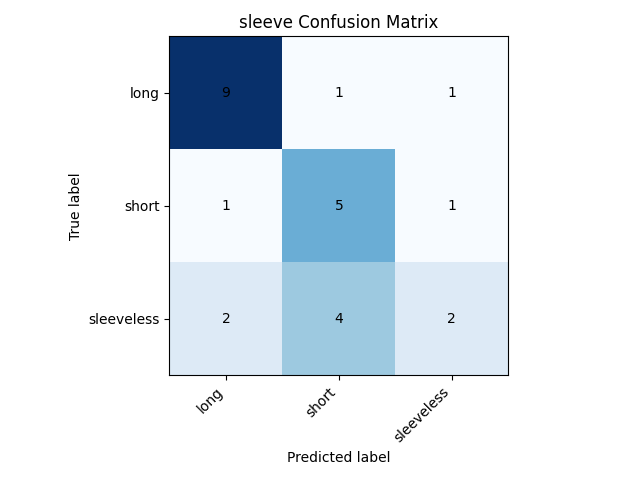
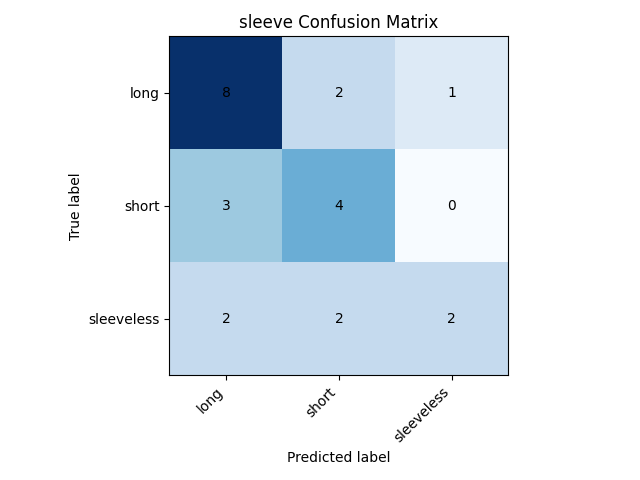
bottom label specific handling

diff --git a/phase4/classifier.py b/phase4/classifier.py
@@ -94,9 +94,15 @@ def build_feature_matrix(df, image_dir="test_images/"):
 
     print("Final feature matrix shape:", X.shape)
     return X, y
+
+
+def sleeve_training_mask(garment_types):
+    """Return True for rows that should be used when training sleeve labels."""
+    garment_types = np.array(garment_types)
+    return garment_types != "pants"
+
     
-    
-def encode_labels(y_dict):
+def encode_labels(y_dict, garment_types=None):
     """
     Encode string labels into integer labels for classifier training.
 
@@ -114,17 +120,28 @@ def encode_labels(y_dict):
 
     for label_name, labels in y_dict.items():
         encoder = LabelEncoder()
-        encoded_labels = encoder.fit_transform(labels)
+
+        if label_name == "sleeve" and garment_types is not None:
+            mask = sleeve_training_mask(garment_types)
+            encoder.fit(labels[mask])
+            encoded_labels = np.full(len(labels), -1, dtype=int)
+            encoded_labels[mask] = encoder.transform(labels[mask])
+            print(
+                f"{label_name} classes:",
+                list(encoder.classes_),
+                f"(trained on {mask.sum()} non-pants samples)",
+            )
+        else:
+            encoded_labels = encoder.fit_transform(labels)
+            print(f"{label_name} classes:", list(encoder.classes_))
 
         y_encoded[label_name] = encoded_labels
         encoders[label_name] = encoder
 
-        print(f"{label_name} classes:", list(encoder.classes_))
-
     return y_encoded, encoders
 
 
-def train_classifiers(X, y_encoded):
+def train_classifiers(X, y_encoded, garment_types=None):
     """
     Train and select the best classifier for each clothing label.
 
@@ -150,10 +167,19 @@ def train_classifiers(X, y_encoded):
     for label_name, y in y_encoded.items():
         print(f"\nTraining classifiers for: {label_name}")
 
+        X_use = X
+        y_use = y
+
+        if label_name == "sleeve" and garment_types is not None:
+            mask = sleeve_training_mask(garment_types)
+            X_use = X[mask]
+            y_use = y[mask]
+            print(f"  Skipping pants: training sleeve on {len(y_use)} samples")
+
         # Stratify only works if each class has at least 2 samples.
-        unique_classes, class_counts = np.unique(y, return_counts=True)
+        unique_classes, class_counts = np.unique(y_use, return_counts=True)
         n_classes = len(unique_classes)
-        n_samples = len(y)
+        n_samples = len(y_use)
         test_size = 0.2
         n_test = int(np.ceil(test_size * n_samples))
 
@@ -164,7 +190,7 @@ def train_classifiers(X, y_encoded):
         )
 
         if can_stratify:
-            stratify_arg = y
+            stratify_arg = y_use
         else:
             stratify_arg = None
             print(
@@ -174,8 +200,8 @@ def train_classifiers(X, y_encoded):
             )
 
         X_train, X_test, y_train, y_test = train_test_split(
-            X,
-            y,
+            X_use,
+            y_use,
             test_size=0.3,
             random_state=42,
             stratify=stratify_arg,
@@ -286,8 +312,9 @@ if __name__ == "__main__":
     print("\npattern counts:")
     print(pd.Series(y["pattern"]).value_counts())
 
-    print("\nsleeve counts:")
-    print(pd.Series(y["sleeve"]).value_counts())
+    print("\nsleeve counts (non-pants only):")
+    sleeve_mask = sleeve_training_mask(y["garment_type"])
+    print(pd.Series(y["sleeve"][sleeve_mask]).value_counts())
 
     print("\nsilhouette counts:")
     print(pd.Series(y["silhouette"]).value_counts())
@@ -298,8 +325,10 @@ if __name__ == "__main__":
     print("\ngarment_type counts:")
     print(pd.Series(y["garment_type"]).value_counts())
 
-    y_encoded, encoders = encode_labels(y)
-    best_classifiers, results = train_classifiers(X, y_encoded)
+    y_encoded, encoders = encode_labels(y, garment_types=y["garment_type"])
+    best_classifiers, results = train_classifiers(
+        X, y_encoded, garment_types=y["garment_type"]
+    )
     save_classifiers(best_classifiers, encoders)
 
     print("\nFinal training summary:")

diff --git a/phase4/evaluate.py b/phase4/evaluate.py
@@ -9,7 +9,7 @@ from sklearn.model_selection import train_test_split
 
 sys.path.insert(0, os.path.join(os.path.dirname(__file__), ".."))
 
-from phase4.classifier import build_feature_matrix, load_labels
+from phase4.classifier import build_feature_matrix, load_labels, sleeve_training_mask
 
 LABELS = ["pattern", "sleeve", "silhouette", "season", "garment_type"]
 
@@ -62,7 +62,7 @@ def load_models(model_dir="outputs/classification/models/"):
     return classifiers, encoders
 
 
-def evaluate_all(classifiers, encoders, X, y_encoded):
+def evaluate_all(classifiers, encoders, X, y_encoded, garment_types=None):
     """Evaluate each saved classifier on test data."""
     out_dir = "outputs/classification/confusion_matrices/"
     os.makedirs(out_dir, exist_ok=True)
@@ -73,7 +73,16 @@ def evaluate_all(classifiers, encoders, X, y_encoded):
         clf = classifiers[label]
         encoder = encoders[label]
 
-        X_test, y_test = get_test_data(X, y_encoded[label])
+        if label == "sleeve" and garment_types is not None:
+            mask = sleeve_training_mask(garment_types)
+            X_use = X[mask]
+            y_use = y_encoded[label][mask]
+            print("\nEvaluating sleeve on", len(y_use), "non-pants samples")
+        else:
+            X_use = X
+            y_use = y_encoded[label]
+
+        X_test, y_test = get_test_data(X_use, y_use)
 
         y_pred = clf.predict(X_test)
         acc = accuracy_score(y_test, y_pred)
@@ -161,5 +170,7 @@ if __name__ == "__main__":
     for label in LABELS:
         y_encoded[label] = encoders[label].transform(y[label])
 
-    summary = evaluate_all(classifiers, encoders, X, y_encoded)
+    summary = evaluate_all(
+        classifiers, encoders, X, y_encoded, garment_types=y["garment_type"]
+    )
     print_report(summary)